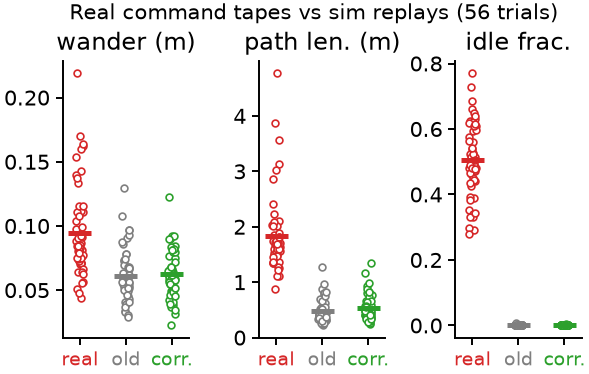
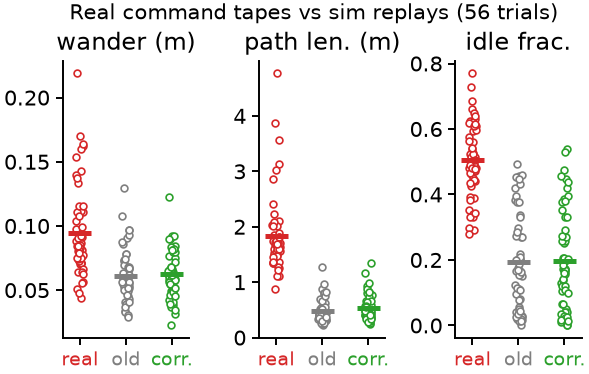
fix idle_frac (arm columns only; gripper column made sim idle ~0) — fig6/fig7 re-rendered, notes corrected

Changed region(s): [[0.8557, 0.3824, 0.9779, 0.8824], [0.8557, 0.4118, 0.9168, 0.6471]]

diff --git a/paper/figures/extract_tape_stats.py b/paper/figures/extract_tape_stats.py
@@ -28,7 +28,7 @@ for world, arm, d in SETS:
         path_len = float(steps.sum())
         net = float(np.linalg.norm(eef[-1] - eef[0]))
         tort = path_len / net if net > 1e-6 else np.nan
-        idle = float((np.abs(act).max(axis=1) < 1e-3).mean())
+        idle = float((np.abs(act[:, :6]).max(axis=1) < 1e-3).mean())   # ARM columns only (col 7 = absolute gripper target; 09-02 fix)
         # wander: mean distance from the straight chord start->end
         a, b = eef[0], eef[-1]; ab = b - a; L2 = (ab @ ab) or 1e-12
         t = np.clip(((eef - a) @ ab) / L2, 0, 1)[:, None]

diff --git a/paper/FIGURES_2026-08-31.md b/paper/FIGURES_2026-08-31.md
@@ -119,8 +119,9 @@ FINDINGS:
   and 449 (corrected). The replay/execution stack is a heavy low-pass filter on the human data —
   and the CORRECTED world retains ~20 % more of the real coverage than the old world (449 vs 374
   on identical trials).
-- Idle: 50 % of real frames command no joint movement (60 Hz frame level) — the raw material of
-  the pruning story (matched dH sets are leading-idle-pruned → ~0).
+- Idle: 50 % of real frames command no joint movement (60 Hz frame level). CORRECTED 09-02: the sim idle
+  fraction was previously computed over all 7 action columns incl. the absolute gripper target (→ ≈0 artefact);
+  with the 6 arm columns the matched (pruned) sets carry ≈0.19–0.20 idle decisions, raw ≈0.25–0.27 (fig12b).
 - Same-trial shape distance real↔replay ≈ 0.19 m in BOTH worlds — and real↔DP-teacher is the
   same magnitude (0.185): the faithful "replay" of a human demo is no closer in path shape to the
   commanded signal than the DP teacher's independent rollout on that IC.
